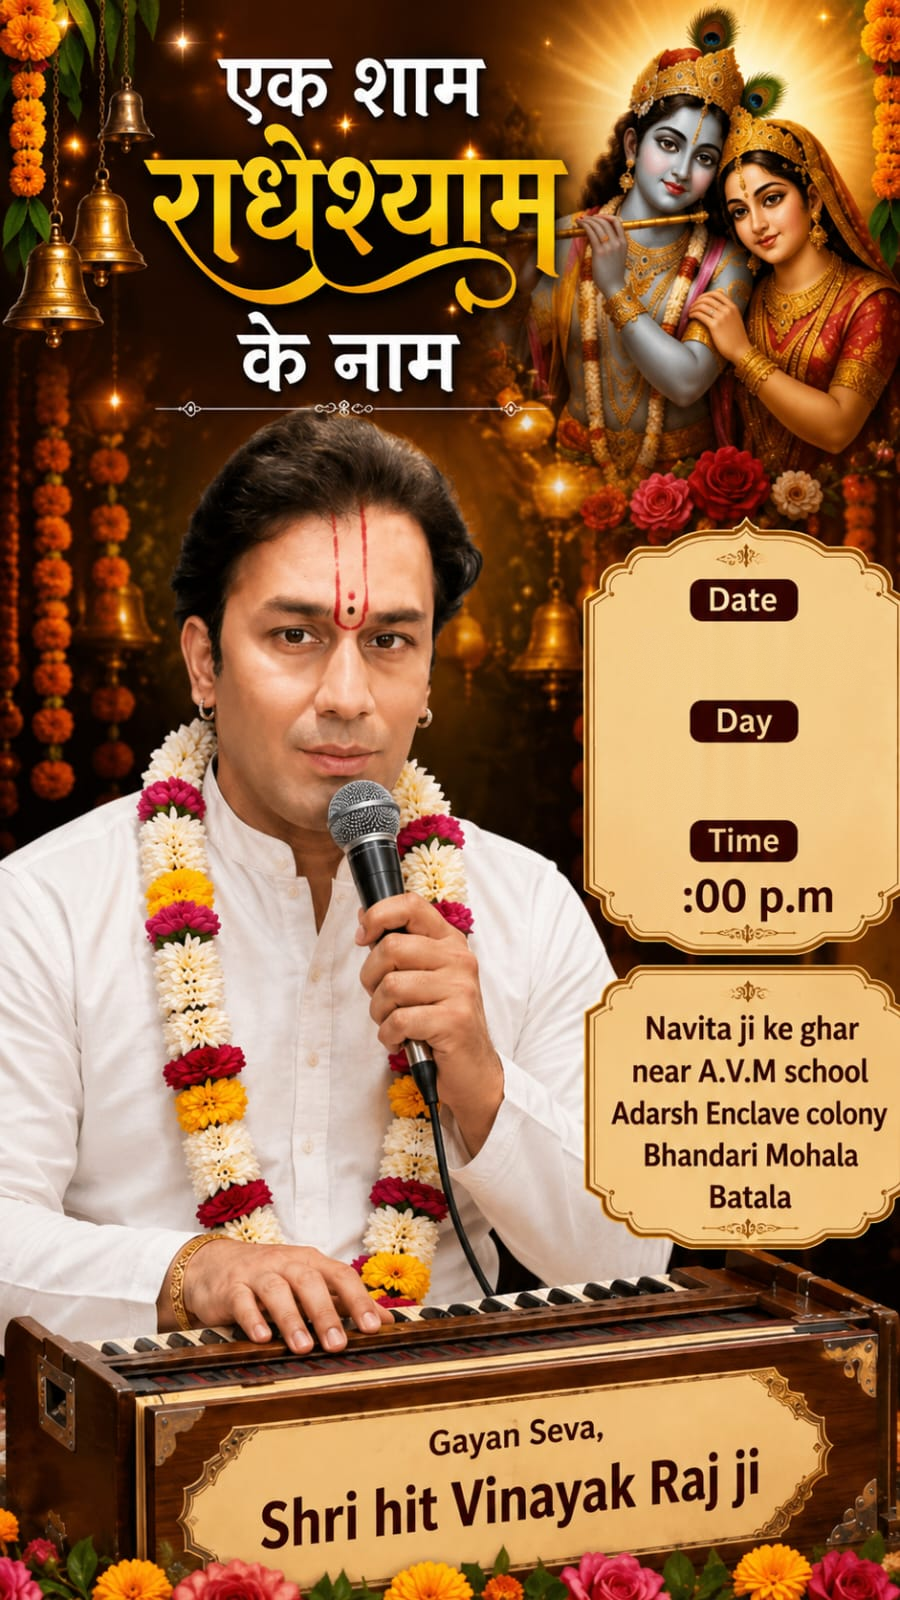
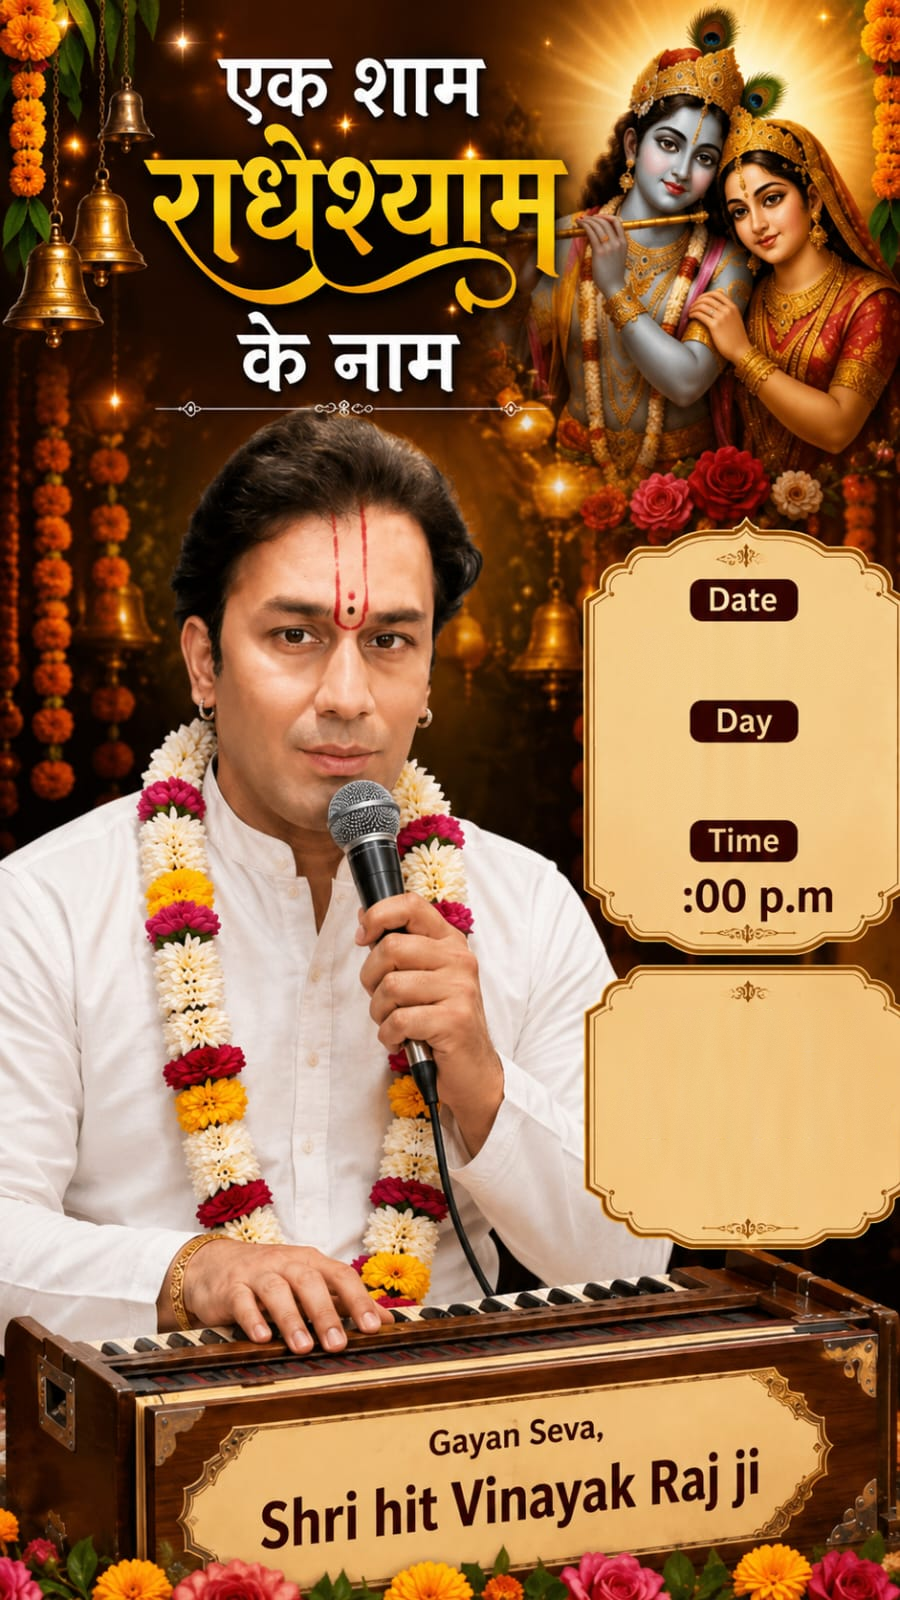
Change the poster's venue to Madhu Bhandari ke ghar, Dera Road
Lifts the five old address lines out of the plate and sets the new
address in four lines of Open Sans Condensed Bold, the closest match to
the address panel's narrower face, at the source's line pitch and centre.

Claude-Session: https://claude.ai/code/session_01LcGYmargCUcPgZrVgcWtv6

Changed region(s): [[0.6844, 0.625, 0.9956, 0.7812]]

diff --git a/radheshyam-invite/index.html b/radheshyam-invite/index.html
@@ -3,7 +3,7 @@
   <head>
     <meta charset="UTF-8" />
     <meta name="viewport" content="width=900, height=1600" />
-    <title>Ek Shaam Radheshyam — 26.10.2026, 2 p.m</title>
+    <title>Ek Shaam Radheshyam — 26.10.2026, 2 p.m, Batala</title>
     <script src="vendor/gsap.min.js"></script>
     <style>
       * {
@@ -30,6 +30,18 @@
         font-weight: 700;
         font-display: block;
         src: url("assets/Mukta-700-latin.woff2") format("woff2");
+      }
+
+      /* The address panel is set in a narrower face than the date panel.
+         Open Sans Condensed Bold (Open Sans at wdth 75) fits it best of 21
+         condensed candidates: at matched height it lands within 1-6% of each
+         source line's width. Same Basic Latin subset. */
+      @font-face {
+        font-family: "Open Sans Condensed";
+        font-style: normal;
+        font-weight: 700;
+        font-display: block;
+        src: url("assets/OpenSansCondensed-700-latin.woff2") format("woff2");
       }
 
       #root {
@@ -76,6 +88,13 @@
       #hour {
         font-size: 50px;
       }
+      /* 28.5px rather than the source's ~33px so the longest line, "Madhu
+         Bhandari ke ghar", spans the same 273px the source's widest line
+         ("Adarsh Enclave colony") did, frame to frame. */
+      #address {
+        font-family: "Open Sans Condensed";
+        font-size: 28.5px;
+      }
     </style>
   </head>
   <body>
@@ -106,6 +125,15 @@
           <!-- Only the hour digit is redrawn; ":00 p.m" is the source's own
                ink. Centred on the old "3" (ink x 658-679), on its baseline. -->
           <text id="hour" class="panel-text" x="668.5" y="912" text-anchor="middle">2</text>
+          <!-- Four lines in place of the source's five, at its own 42px line
+               pitch, centred on its block (ink y 1014-1208) and its line
+               centres (x≈750). -->
+          <text id="address" class="panel-text" text-anchor="middle">
+            <tspan x="750" y="1059">Madhu Bhandari ke ghar</tspan>
+            <tspan x="750" y="1101">Old Grain Market,</tspan>
+            <tspan x="750" y="1143">Dera Road, Batala</tspan>
+            <tspan x="750" y="1185">near State Bank of India</tspan>
+          </text>
         </svg>
       </div>
     </div>

diff --git a/radheshyam-invite/tools/make_plate.py b/radheshyam-invite/tools/make_plate.py
@@ -1,6 +1,7 @@
-"""Build assets/plate.png: the poster with the old date, day and hour lifted out.
+"""Build assets/plate.png: the poster with the old date, day, hour and address
+lifted out.
 
-The date panel's parchment is near-flat (std ~1.2 levels in clean bands), so
+Both panels' parchment is near-flat within a band (std ~1.2 levels), so
 each patch is filled by interpolating, per column, between the clean rows just
 above and just below it, plus fixed-seed grain at the measured std. Run from
 the project root:  python3 tools/make_plate.py
@@ -17,6 +18,14 @@ PATCHES = {
     # Only the "3" of "3:00 p.m" - the ":00 p.m" stays the source's own ink.
     # Right edge stops short of the colon (ink from x=684).
     "hour": (654, 875, 682, 916),  # "3" ink 658-679 x 879-912
+    # Address panel: one band per old line, each bounded by the clean gaps
+    # between lines (the top ornament ends y=1011, the bottom one starts
+    # y=1218). Line 3 runs nearly frame to frame, so its band does too.
+    "addr1": (640, 1011, 866, 1050),  # "Navita ji ke ghar"     646-858 x 1014-1046
+    "addr2": (627, 1054, 874, 1090),  # "near A.V.M school"     633-868 x 1057-1082
+    "addr3": (606, 1094, 890, 1136),  # "Adarsh Enclave colony" 612-884 x 1100-1131
+    "addr4": (639, 1140, 863, 1173),  # "Bhandari Mohala"       645-857 x 1142-1166
+    "addr5": (704, 1177, 797, 1213),  # "Batala"                710-791 x 1184-1208
 }
 EDGE_ROWS = 3   # clean rows sampled on each side
 GRAIN_STD = 1.2

diff --git a/radheshyam-invite/README.md b/radheshyam-invite/README.md
@@ -1,14 +1,16 @@
 # Ek Shaam Radheshyam — date change
 
-The poster re-dated from **29.8.2026 (Saturday), 3:00 p.m** to
-**26.10.2026 (Monday), 2:00 p.m**,
+The poster moved from **29.8.2026 (Saturday), 3:00 p.m** at Navita ji ke ghar to
+**26.10.2026 (Monday), 2:00 p.m** at Madhu Bhandari ke ghar, Old Grain Market,
+Dera Road, Batala, near State Bank of India,
 composed and rendered with HyperFrames.
 
-Output: `renders/ek-shaam-radheshyam-26-10-2026-2pm.png` (lossless) and `.jpg` (q95, for WhatsApp).
+Output: `renders/ek-shaam-radheshyam-26-10-2026.png` (lossless) and `.jpg` (q95, for WhatsApp).
 
 ## How it works
 
-1. `tools/make_plate.py` lifts the old date, day and the "3" of the time out of `assets/poster.jpg`
+1. `tools/make_plate.py` lifts the old date, day, the "3" of the time and the
+   five address lines out of `assets/poster.jpg`
    into `assets/plate.png`. The panel's parchment is near-flat (std ~1.2 levels),
    so each patch is a per-column interpolation between the clean rows above and
    below, plus fixed-seed grain at that std.
@@ -21,10 +23,11 @@ Output: `renders/ek-shaam-radheshyam-26-10-2026-2pm.png` (lossless) and `.jpg` (
 | Size | 54.5px date, 47.5px day, 50px hour | Fitted to the source lines' ink height. |
 | Baselines | y = 675, y = 792, y = 912 | Solved from the source ink boxes; the renders land within 1px top and bottom. The "2" sits on the same bottom row (911) as the source's flat-based "m". |
 | Centres | x = 746, x = 747, x = 668.5 | The source lines' own ink centres; the "2" on the old "3"'s (ink x 658-679 → 658-678). |
+| Address face | Open Sans Condensed Bold, 28.5px | The address panel uses a narrower face than the date panel. Best of 21 condensed candidates. Sized so "Madhu Bhandari ke ghar" spans the 273px the source's widest line did; four lines at the source's 42px pitch, centred on its block (ink y 1037-1185 vs the source's 1014-1208, same centre). |
 | Colour | `#320a03` | Rendered stroke core averages RGB (54, 14, 6) vs the source's (55, 13, 6). |
 
 Only the hour digit is redrawn: ":00 p.m" is the source's own ink, so the time line
-keeps its original lettering. Outside the three text areas the render is pixel-identical to the source (0 pixels differ).
+keeps its original lettering. Outside the edited text areas the render is pixel-identical to the source (0 pixels differ).
 
 ## Re-rendering
 
